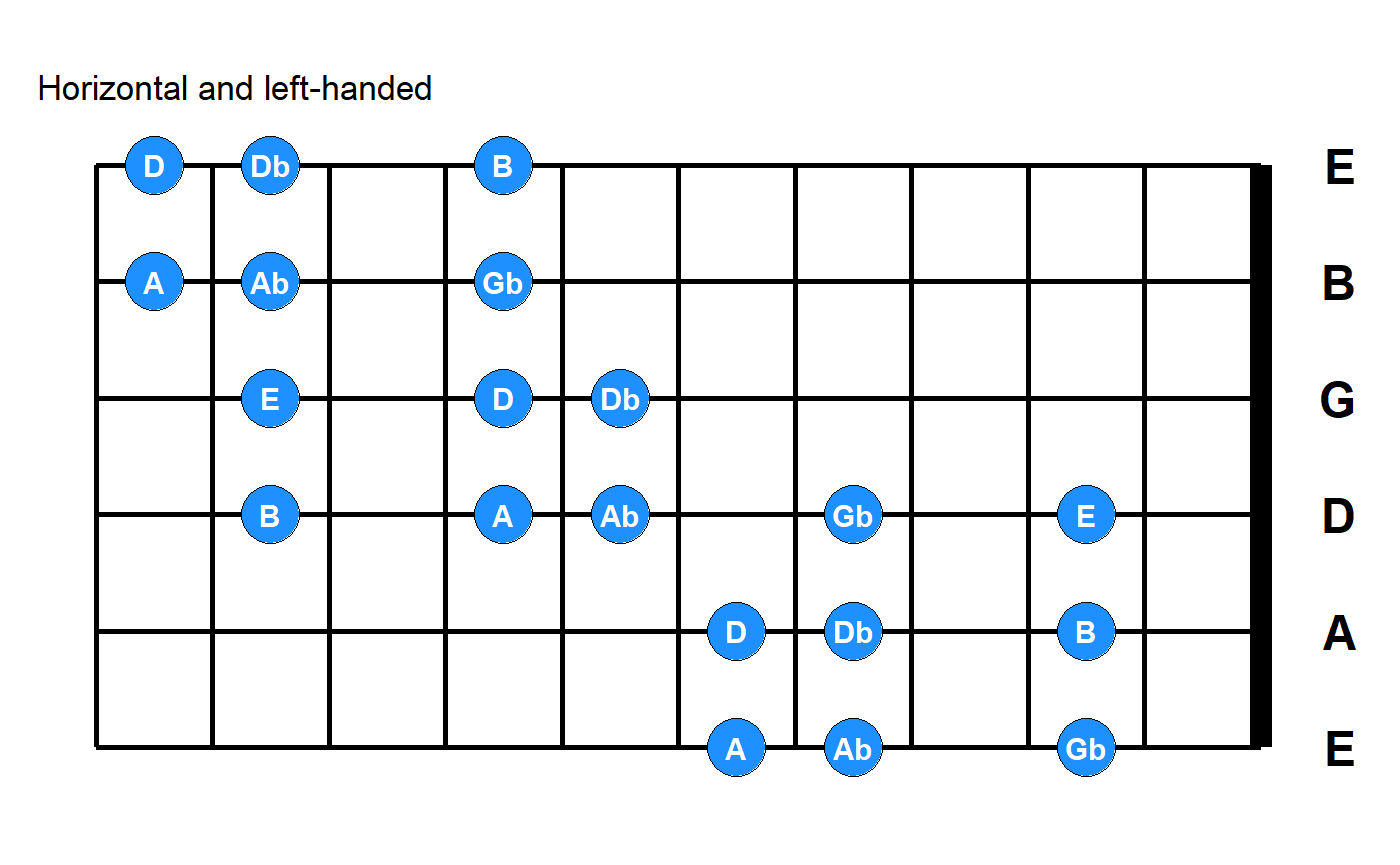
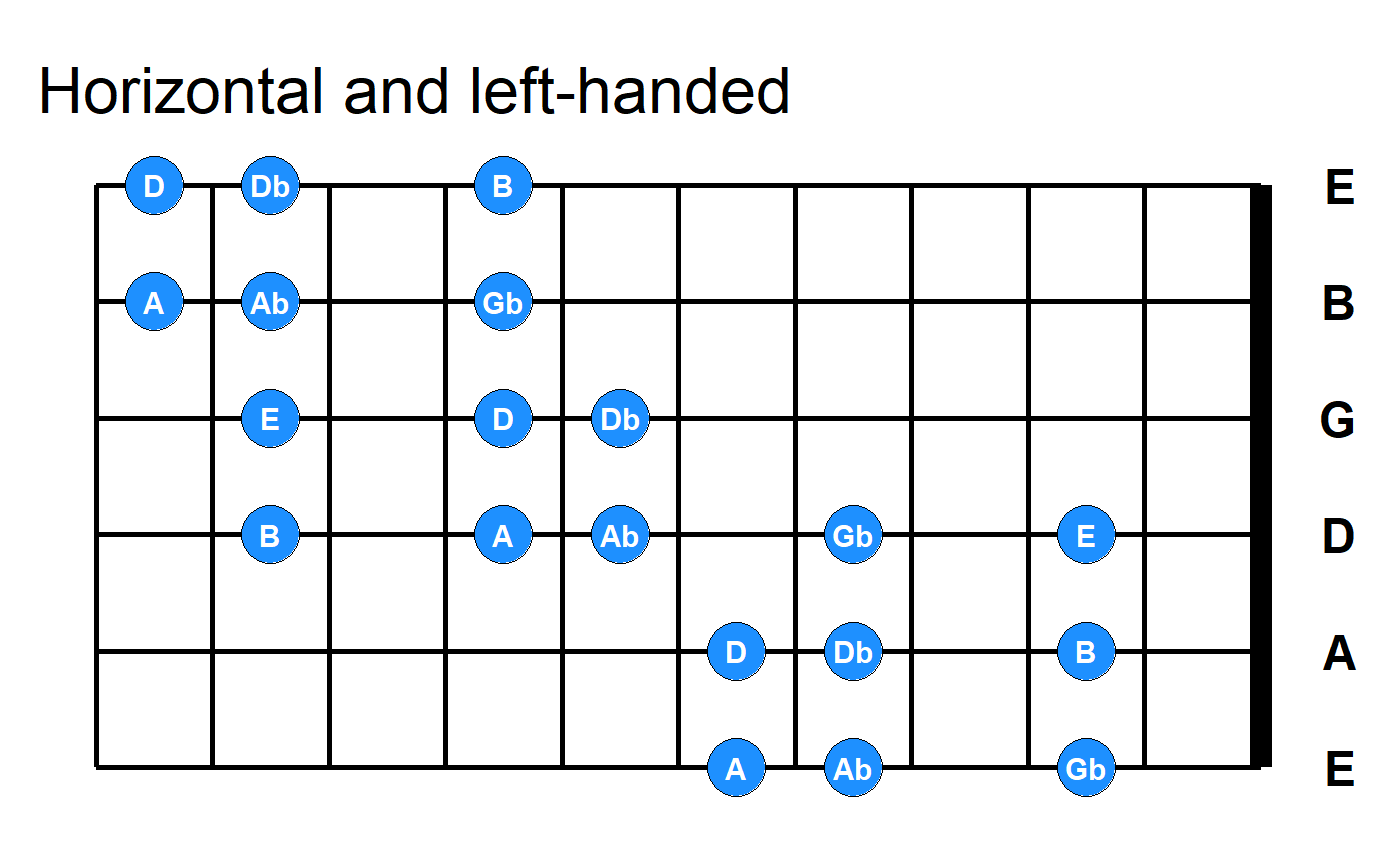
Update fretboard diagram plotting and examples. Other minor documentation updates.

diff --git a/docs/articles/tabr-fretboard.html b/docs/articles/tabr-fretboard.html
@@ -196,8 +196,8 @@
 <a class="sourceLine" id="cb3-2" title="2">fret &lt;-<span class="st"> </span><span class="kw"><a href="https://rdrr.io/r/base/c.html">c</a></span>(<span class="dv">2</span>, <span class="dv">4</span>, <span class="dv">5</span>, <span class="dv">2</span>, <span class="dv">4</span>, <span class="dv">5</span>, <span class="dv">2</span>, <span class="dv">4</span>, <span class="dv">6</span>, <span class="dv">7</span>, <span class="dv">9</span>, <span class="dv">6</span>, <span class="dv">7</span>, <span class="dv">9</span>, <span class="dv">7</span>, <span class="dv">9</span>, <span class="dv">10</span>, <span class="dv">7</span>, <span class="dv">9</span>, <span class="dv">10</span>)</a>
 <a class="sourceLine" id="cb3-3" title="3"><span class="kw"><a href="../reference/plot_fretboard.html">plot_fretboard</a></span>(string, fret, <span class="st">"notes"</span>, <span class="dt">show_tuning =</span> <span class="ot">TRUE</span>)</a></code></pre></div>
 <p><img src="tabr-fretboard_files/figure-html/fb3-1.png" width="100%"></p>
-<p>How accidentals are displayed when <code>labels = "notes"</code>, as sharps or flats, can be controlled by setting the <code>key</code> to a specific key or simply to <code>sharp</code> or <code>flat</code>. Here, the key of G contains a sharp, which alters the labeling from the previous diagram.</p>
-<div class="sourceCode" id="cb4"><pre class="sourceCode r"><code class="sourceCode r"><a class="sourceLine" id="cb4-1" title="1"><span class="kw"><a href="../reference/plot_fretboard.html">plot_fretboard</a></span>(string, fret, <span class="st">"notes"</span>, <span class="dt">show_tuning =</span> <span class="ot">TRUE</span>, <span class="dt">key =</span> <span class="st">"g"</span>)</a></code></pre></div>
+<p>When <code>labels = "notes"</code>, accidentals are displayed as flats by default. Set <code>accidentals = "sharp"</code> to change.</p>
+<div class="sourceCode" id="cb4"><pre class="sourceCode r"><code class="sourceCode r"><a class="sourceLine" id="cb4-1" title="1"><span class="kw"><a href="../reference/plot_fretboard.html">plot_fretboard</a></span>(string, fret, <span class="st">"notes"</span>, <span class="dt">show_tuning =</span> <span class="ot">TRUE</span>, <span class="dt">accidentals =</span>  <span class="st">"sharp"</span>)</a></code></pre></div>
 <p><img src="tabr-fretboard_files/figure-html/fb4-1.png" width="100%"></p>
 </div>
 <div id="limits" class="section level2">
@@ -274,6 +274,22 @@
 <p>Frets are assumed to be single-digit when provided as above. When any two-digit fret value occurs, you must provide the fret values as space- or semicolon-delimited. The latter is like LilyPond format, but a trailing semicolon is ignored if present.</p>
 <div class="sourceCode" id="cb13"><pre class="sourceCode r"><code class="sourceCode r"><a class="sourceLine" id="cb13-1" title="1"><span class="kw"><a href="../reference/plot_fretboard.html">plot_chord</a></span>(<span class="st">"10 12 13 11"</span>, <span class="dt">fret_range =</span> <span class="kw"><a href="https://rdrr.io/r/base/c.html">c</a></span>(<span class="dv">10</span>, <span class="dv">14</span>)) <span class="co"># same as "10;12;13;11"</span></a></code></pre></div>
 <p><img src="tabr-fretboard_files/figure-html/plot_chord3-1.png" width="100%"></p>
+<p>In an effort to leave some flexibility to the user, and while these plotting functions remain under development, plotting multiple chords as a chord chart is intentionally handled separately on a case by case basis. Here is an example using a little extra <code>ggplot2</code>, <code>purrr</code> and <code>gridExtra</code>. It also shows how you can tweak some layout settings to size and arrange elements nicely for your <code>Rmd</code> file.</p>
+<div class="sourceCode" id="cb14"><pre class="sourceCode r"><code class="sourceCode r"><a class="sourceLine" id="cb14-1" title="1"><span class="kw"><a href="https://rdrr.io/r/base/library.html">library</a></span>(ggplot2)</a>
+<a class="sourceLine" id="cb14-2" title="2"><span class="kw"><a href="https://rdrr.io/r/base/library.html">library</a></span>(purrr)</a>
+<a class="sourceLine" id="cb14-3" title="3"><span class="kw"><a href="https://rdrr.io/r/base/library.html">library</a></span>(gridExtra)</a>
+<a class="sourceLine" id="cb14-4" title="4"></a>
+<a class="sourceLine" id="cb14-5" title="5">chords &lt;-<span class="st"> </span><span class="kw"><a href="https://rdrr.io/r/base/c.html">c</a></span>(<span class="st">"02210"</span>, <span class="st">"32010"</span>, <span class="st">"0232"</span>, <span class="st">"133211"</span>, <span class="st">"022100"</span>)</a>
+<a class="sourceLine" id="cb14-6" title="6">id &lt;-<span class="st"> </span><span class="kw"><a href="https://rdrr.io/r/base/c.html">c</a></span>(<span class="st">"Am"</span>, <span class="st">"C"</span>, <span class="st">"D"</span>, <span class="st">"F"</span>, <span class="st">"E"</span>)</a>
+<a class="sourceLine" id="cb14-7" title="7"></a>
+<a class="sourceLine" id="cb14-8" title="8">g &lt;-<span class="st"> </span><span class="kw">map2</span>(chords, id, <span class="op">~</span>{</a>
+<a class="sourceLine" id="cb14-9" title="9">  <span class="kw"><a href="../reference/plot_fretboard.html">plot_chord</a></span>(.x, <span class="st">"notes"</span>, <span class="dt">point_size =</span> <span class="dv">8</span>, <span class="dt">fret_range =</span> <span class="kw"><a href="https://rdrr.io/r/base/c.html">c</a></span>(<span class="dv">0</span>, <span class="dv">4</span>), <span class="dt">accidentals =</span> <span class="st">"sharp"</span>, <span class="dt">asp =</span> <span class="fl">1.25</span>) <span class="op">+</span><span class="st"> </span></a>
+<a class="sourceLine" id="cb14-10" title="10"><span class="st">    </span><span class="kw">ggtitle</span>(.y)</a>
+<a class="sourceLine" id="cb14-11" title="11">})</a>
+<a class="sourceLine" id="cb14-12" title="12"></a>
+<a class="sourceLine" id="cb14-13" title="13"><span class="kw">grid.arrange</span>(<span class="dt">grobs =</span> g, <span class="dt">nrow =</span> <span class="dv">2</span>)</a></code></pre></div>
+<p><img src="tabr-fretboard_files/figure-html/plot_chord4-1.png" width="100%"></p>
+<p>You can use <code>marrangeGrob</code> instead of <code>grid.arrange</code> if you want to split a larger set of chord diagrams onto multiple pages.</p>
 </div>
   </div>
 

diff --git a/docs/reference/plot_fretboard.html b/docs/reference/plot_fretboard.html
@@ -220,16 +220,18 @@
     </div>
 
     <pre class="usage"><span class='fu'>plot_fretboard</span>(<span class='no'>string</span>, <span class='no'>fret</span>, <span class='kw'>labels</span> <span class='kw'>=</span> <span class='kw'>NULL</span>, <span class='kw'>mute</span> <span class='kw'>=</span> <span class='fl'>FALSE</span>,
-  <span class='kw'>label_size</span> <span class='kw'>=</span> <span class='fl'>4</span>, <span class='kw'>label_color</span> <span class='kw'>=</span> <span class='st'>"white"</span>, <span class='kw'>point_size</span> <span class='kw'>=</span> <span class='fl'>10</span>,
+  <span class='kw'>label_size</span> <span class='kw'>=</span> <span class='fl'>10</span>, <span class='kw'>label_color</span> <span class='kw'>=</span> <span class='st'>"white"</span>, <span class='kw'>point_size</span> <span class='kw'>=</span> <span class='fl'>10</span>,
   <span class='kw'>point_color</span> <span class='kw'>=</span> <span class='st'>"black"</span>, <span class='kw'>point_fill</span> <span class='kw'>=</span> <span class='st'>"black"</span>, <span class='kw'>group</span> <span class='kw'>=</span> <span class='kw'>NULL</span>,
   <span class='kw'>horizontal</span> <span class='kw'>=</span> <span class='fl'>FALSE</span>, <span class='kw'>left_handed</span> <span class='kw'>=</span> <span class='fl'>FALSE</span>, <span class='kw'>fret_range</span> <span class='kw'>=</span> <span class='kw'>NULL</span>,
-  <span class='kw'>key</span> <span class='kw'>=</span> <span class='st'>"c"</span>, <span class='kw'>tuning</span> <span class='kw'>=</span> <span class='st'>"standard"</span>, <span class='kw'>show_tuning</span> <span class='kw'>=</span> <span class='fl'>FALSE</span>, <span class='kw'>asp</span> <span class='kw'>=</span> <span class='kw'>NULL</span>)
+  <span class='kw'>accidentals</span> <span class='kw'>=</span> <span class='fu'><a href='https://rdrr.io/r/base/c.html'>c</a></span>(<span class='st'>"flat"</span>, <span class='st'>"sharp"</span>), <span class='kw'>tuning</span> <span class='kw'>=</span> <span class='st'>"standard"</span>,
+  <span class='kw'>show_tuning</span> <span class='kw'>=</span> <span class='fl'>FALSE</span>, <span class='kw'>asp</span> <span class='kw'>=</span> <span class='kw'>NULL</span>, <span class='kw'>base_size</span> <span class='kw'>=</span> <span class='fl'>20</span>)
 
-<span class='fu'>plot_chord</span>(<span class='no'>chord</span>, <span class='kw'>labels</span> <span class='kw'>=</span> <span class='kw'>NULL</span>, <span class='kw'>label_size</span> <span class='kw'>=</span> <span class='fl'>4</span>,
+<span class='fu'>plot_chord</span>(<span class='no'>chord</span>, <span class='kw'>labels</span> <span class='kw'>=</span> <span class='kw'>NULL</span>, <span class='kw'>label_size</span> <span class='kw'>=</span> <span class='fl'>10</span>,
   <span class='kw'>label_color</span> <span class='kw'>=</span> <span class='st'>"white"</span>, <span class='kw'>point_size</span> <span class='kw'>=</span> <span class='fl'>10</span>, <span class='kw'>point_color</span> <span class='kw'>=</span> <span class='st'>"black"</span>,
   <span class='kw'>point_fill</span> <span class='kw'>=</span> <span class='st'>"black"</span>, <span class='kw'>group</span> <span class='kw'>=</span> <span class='kw'>NULL</span>, <span class='kw'>horizontal</span> <span class='kw'>=</span> <span class='fl'>FALSE</span>,
-  <span class='kw'>left_handed</span> <span class='kw'>=</span> <span class='fl'>FALSE</span>, <span class='kw'>fret_range</span> <span class='kw'>=</span> <span class='kw'>NULL</span>, <span class='kw'>key</span> <span class='kw'>=</span> <span class='st'>"c"</span>,
-  <span class='kw'>tuning</span> <span class='kw'>=</span> <span class='st'>"standard"</span>, <span class='kw'>show_tuning</span> <span class='kw'>=</span> <span class='fl'>FALSE</span>, <span class='kw'>asp</span> <span class='kw'>=</span> <span class='kw'>NULL</span>)</pre>
+  <span class='kw'>left_handed</span> <span class='kw'>=</span> <span class='fl'>FALSE</span>, <span class='kw'>fret_range</span> <span class='kw'>=</span> <span class='kw'>NULL</span>, <span class='kw'>accidentals</span> <span class='kw'>=</span> <span class='fu'><a href='https://rdrr.io/r/base/c.html'>c</a></span>(<span class='st'>"flat"</span>,
+  <span class='st'>"sharp"</span>), <span class='kw'>tuning</span> <span class='kw'>=</span> <span class='st'>"standard"</span>, <span class='kw'>show_tuning</span> <span class='kw'>=</span> <span class='fl'>FALSE</span>, <span class='kw'>asp</span> <span class='kw'>=</span> <span class='kw'>NULL</span>,
+  <span class='kw'>base_size</span> <span class='kw'>=</span> <span class='fl'>20</span>)</pre>
 
     <h2 class="hasAnchor" id="arguments"><a class="anchor" href="#arguments"></a>Arguments</h2>
     <table class="ref-arguments">
@@ -289,9 +291,9 @@ string numbers.</p></td>
 from <code>fret</code>.</p></td>
     </tr>
     <tr>
-      <th>key</th>
-      <td><p>character, key signature, used to enforce type of accidentals
-when <code>labels = "notes"</code>.</p></td>
+      <th>accidentals</th>
+      <td><p>character, when <code>labels = "notes"</code> represent
+accidentals: <code>"flat"</code> or <code>"sharp"</code>.</p></td>
     </tr>
     <tr>
       <th>tuning</th>
@@ -306,6 +308,10 @@ pre-defined tuning. See details.</p></td>
       <th>asp</th>
       <td><p>numeric, aspect ratio, overrides default aspect ratio derived
 from number of strings and frets.</p></td>
+    </tr>
+    <tr>
+      <th>base_size</th>
+      <td><p>base size for <code><a href='https://ggplot2.tidyverse.org/reference/ggtheme.html'>ggplot2::theme_void</a></code>.</p></td>
     </tr>
     <tr>
       <th>chord</th>

diff --git a/docs/articles/tabr-helpers.html b/docs/articles/tabr-helpers.html
@@ -260,8 +260,8 @@
 <p>In the last section there was an example showing a sequence of notes followed by the same sequence transposed one octave up. At the time, it was written out twice. Here, the same sequence is reproduced using <code>transpose</code>. Transposing up one octave is done by specifying an increase of 12 semitones or half steps. Note that <code>transpose</code> drops the unnecessary <code>3</code>s for the third octave, the central octave in LilyPond. They are dropped from <code>note2</code> here</p>
 <div class="sourceCode" id="cb12"><pre class="sourceCode r"><code class="sourceCode r"><a class="sourceLine" id="cb12-1" title="1">notes1 &lt;-<span class="st"> "c3 b2 c3 d3 e3 e3 d3 c3 b2 c3 c3 c4"</span></a>
 <a class="sourceLine" id="cb12-2" title="2">notes2 &lt;-<span class="st"> "c4 b c4 d4 e4 e4 d4 c4 b c4 c4 c5"</span></a>
-<a class="sourceLine" id="cb12-3" title="3"><span class="kw"><a href="../reference/transpose.html">transpose</a></span>(notes1, <span class="dv">12</span>) <span class="op">==</span><span class="st"> </span><span class="kw"><a href="../reference/valid-notes.html">as_noteworthy</a></span>(notes2)</a></code></pre></div>
-<pre class="r-output"><code>#&gt;  [1] TRUE TRUE TRUE TRUE TRUE TRUE TRUE TRUE TRUE TRUE TRUE TRUE
+<a class="sourceLine" id="cb12-3" title="3"><span class="kw"><a href="https://rdrr.io/r/base/all.html">all</a></span>(<span class="kw"><a href="../reference/transpose.html">transpose</a></span>(notes1, <span class="dv">12</span>) <span class="op">==</span><span class="st"> </span><span class="kw"><a href="../reference/valid-notes.html">as_noteworthy</a></span>(notes2))</a></code></pre></div>
+<pre class="r-output"><code>#&gt; [1] TRUE
 </code></pre>
 <p>Transposing down is done with negative integers. The default (<code>n = 0</code>) returns the input, <code>x</code>, with no transposition. The alias <code>tp</code> can be used to limit typing. Examples are shown below.</p>
 <div class="sourceCode" id="cb13"><pre class="sourceCode r"><code class="sourceCode r"><a class="sourceLine" id="cb13-1" title="1"><span class="kw"><a href="../reference/transpose.html">transpose</a></span>(<span class="st">"a_3 b_4 c5"</span>, <span class="dv">0</span>)</a></code></pre></div>

diff --git a/docs/news/index.html b/docs/news/index.html
@@ -241,6 +241,7 @@
 <li>Updated vignettes, readme and other documentation.</li>
 <li>Made improvements to print method for phrase objects.</li>
 <li>Added <code>rests</code> argument to some note metadata functions.</li>
+<li>Improvements to <code>plot_fretboard</code> (renamed from <code>fretboard_plot</code>) and added wrapper function <code>plot_chord</code> for more convenient chord diagrams.</li>
 <li>Minor bug fixes.</li>
 <li>Thank you to <a href="https://github.com/fnord-repeater">fnord-repeater</a> for several helpful suggestions and insights as well as example code that helped to make the transcription pipeline better.</li>
 <li>Thank you to <a href="https://github.com/HanOostdijk">Han Oostdijk</a> for additional bug fixes and improvements to the code for the transcription pipeline.</li>

diff --git a/NEWS.md b/NEWS.md
@@ -23,6 +23,7 @@
 * Updated vignettes, readme and other documentation.
 * Made improvements to print method for phrase objects.
 * Added `rests` argument to some note metadata functions.
+* Improvements to `plot_fretboard` (renamed from `fretboard_plot`) and added wrapper function `plot_chord` for more convenient chord diagrams.
 * Minor bug fixes.
 * Thank you to [fnord-repeater](https://github.com/fnord-repeater) for several helpful suggestions and insights as well as example code that helped to make the transcription pipeline better.
 * Thank you to [Han Oostdijk](https://github.com/HanOostdijk) for additional bug fixes and improvements to the code for the transcription pipeline.
